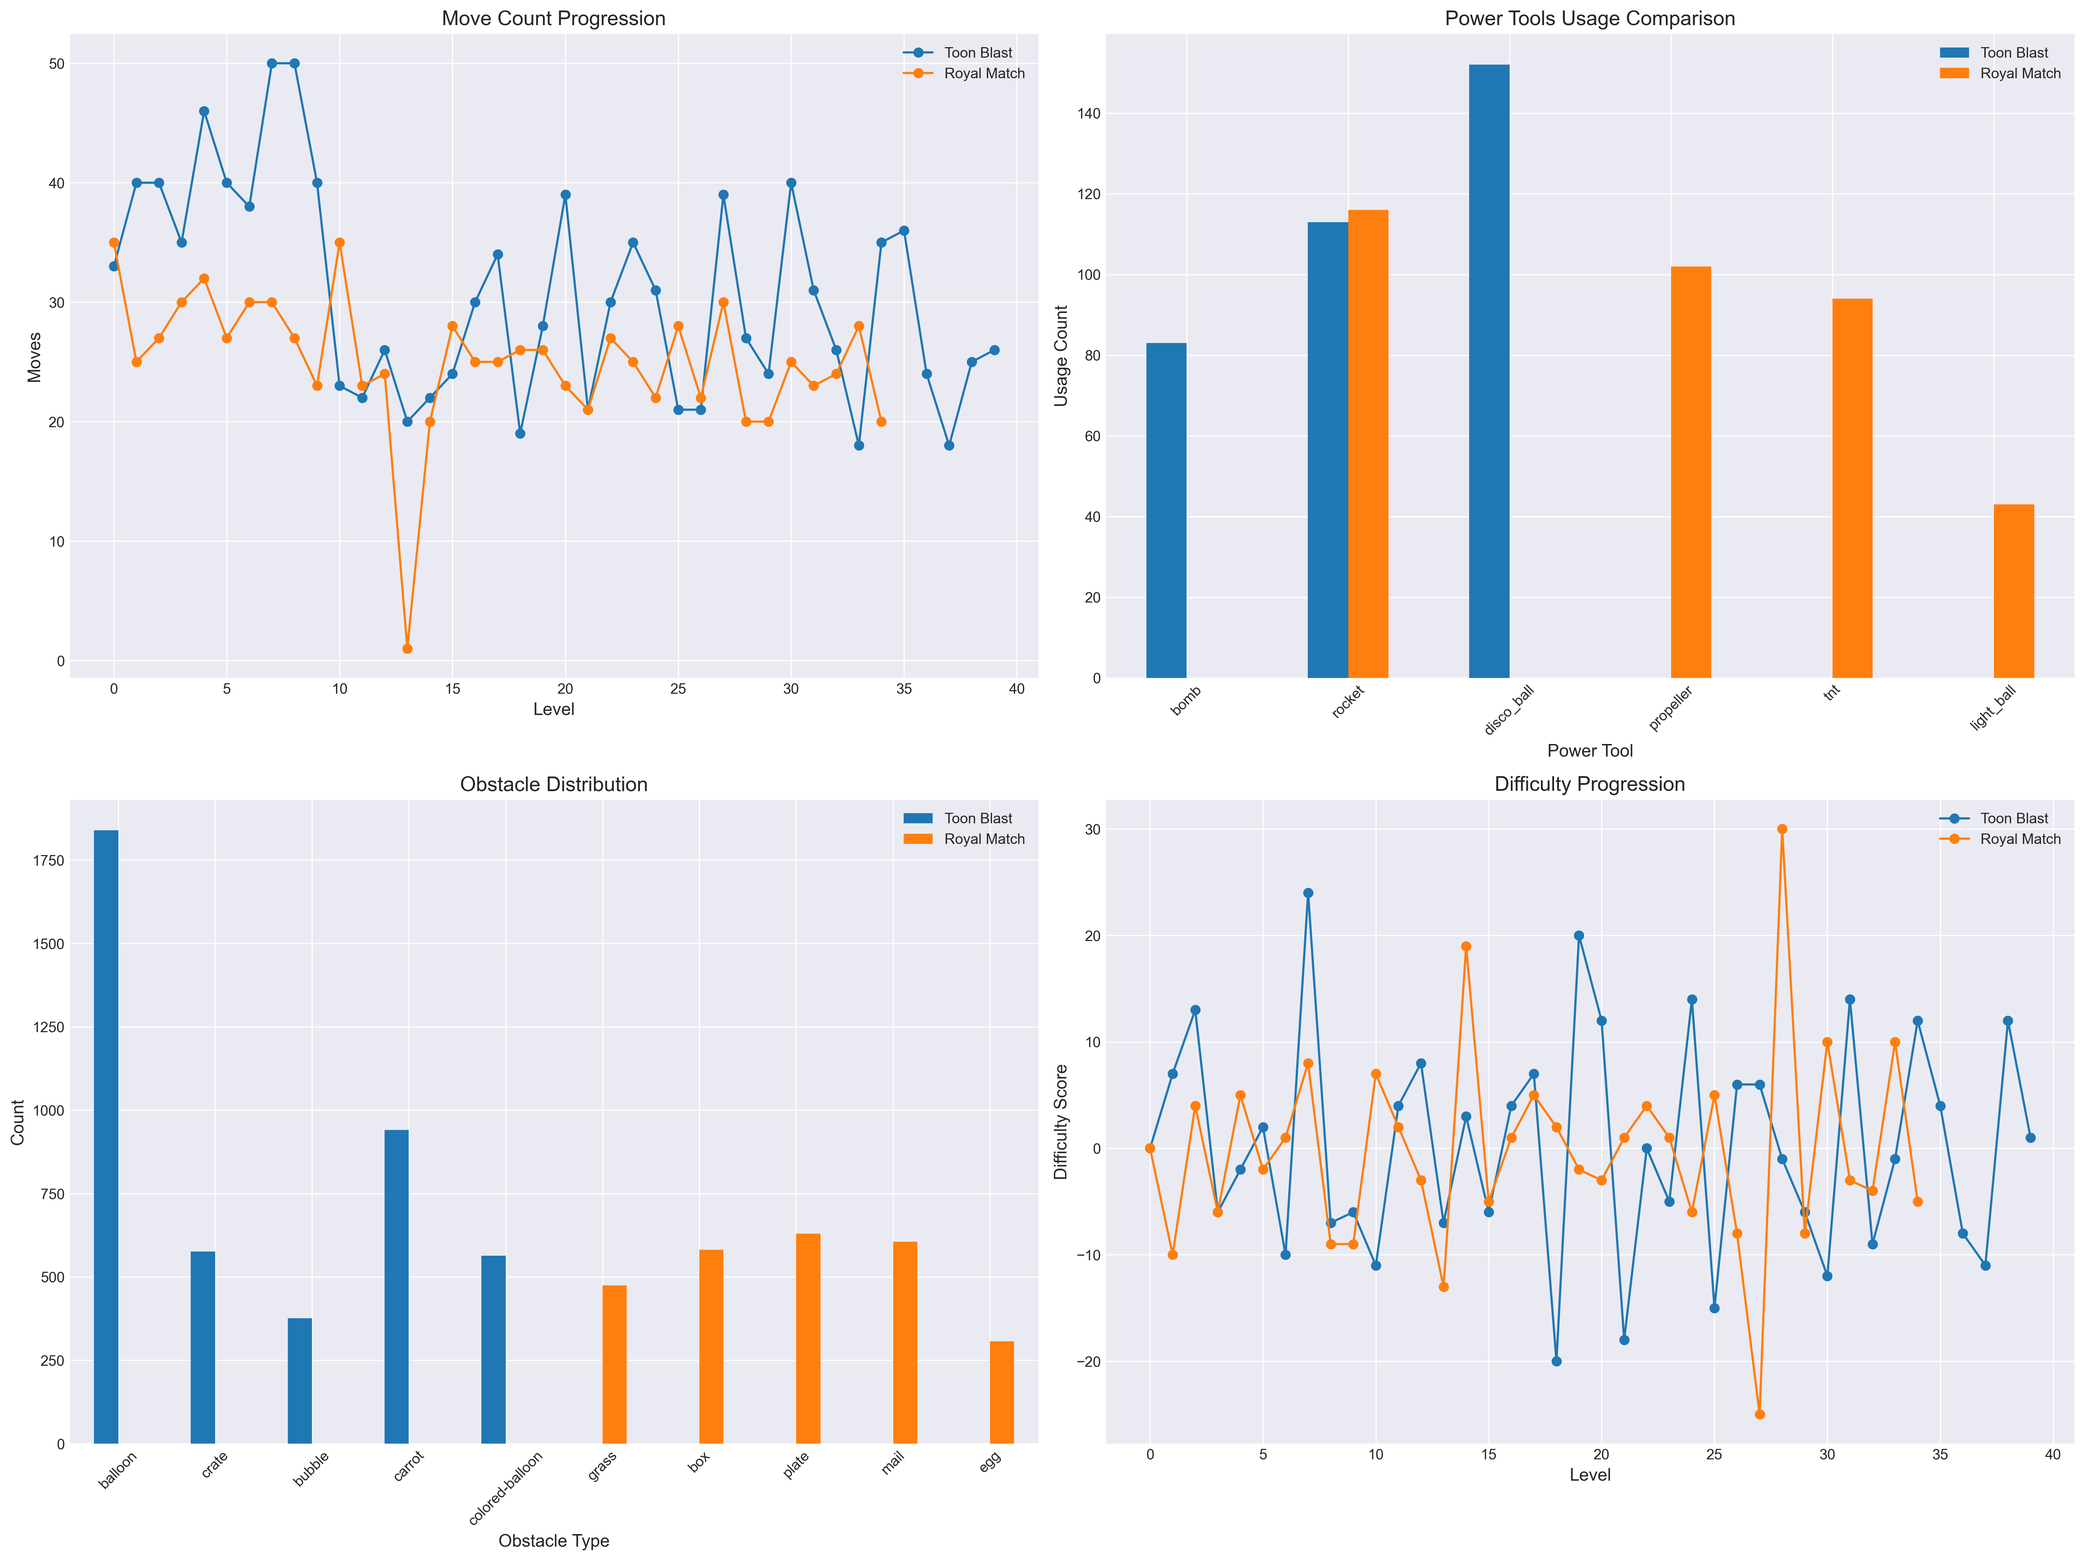
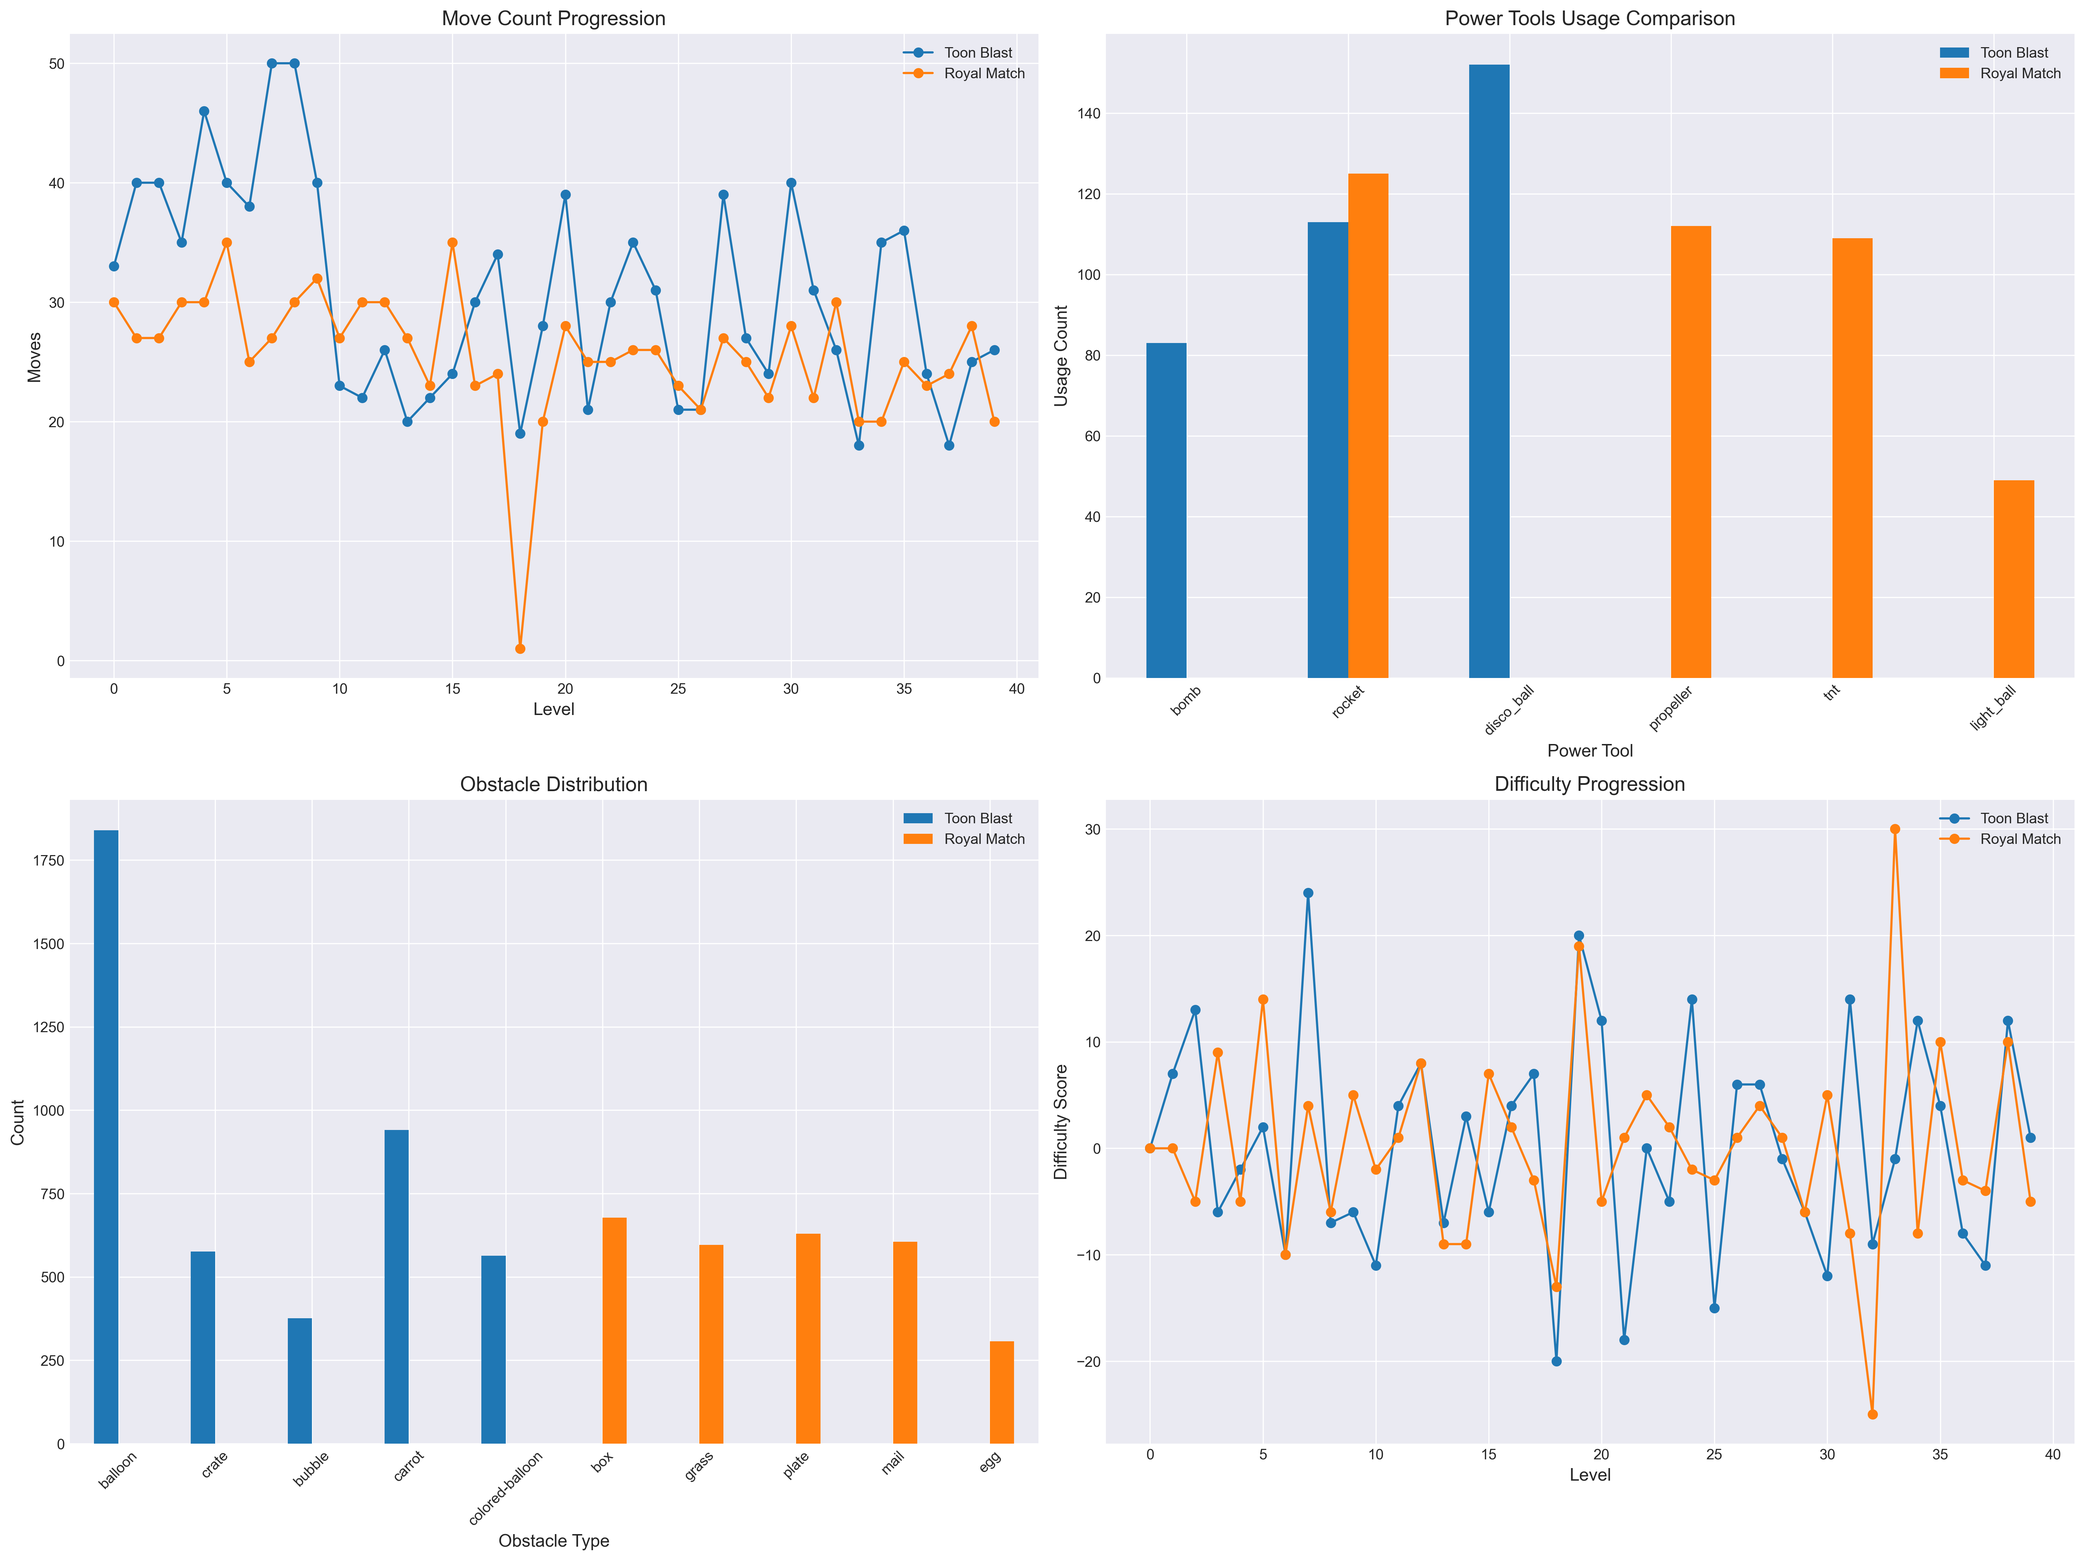
Update game analysis documentation and visualizations for Royal Match and Toon Blast, including adjustments to move counts, difficulty ratings, and power tool distributions.

diff --git a/general-analyze/complete-analysis.md b/general-analyze/complete-analysis.md
@@ -19,7 +19,7 @@ Royal Match and Toon Blast represent two distinct approaches to mobile puzzle ga
 | Basic Match-3 | Traditional swap-adjacent-tiles to match 3+ identical pieces | 1 | Remains consistent throughout |
 | Special Pieces | Rocket: clears row/column<br>Propeller: clears random area<br>TNT: 2-tile radius blast<br>Light Ball: clears same color | 1<br>1<br>1<br>1 | Emphasized differently at different levels; Rockets become most frequent (119 used) |
 | Boosters/Power-ups | Royal Hammer: clears one tile<br>Arrow: clears row<br>Cannon: clears column<br>Jester Hat: shuffles board | 7<br>14<br>17<br>19 | Strategically unlocked before difficulty spikes |
-| Move Restrictions | Limited moves per level (average: 25.1) | 1 | Gradually decreases from 27.1 (levels 1-10) to 23.5 (levels 31-40) |
+| Move Restrictions | Limited moves per level (average: 25.5) | 1 | Gradually decreases from 27.1 (levels 1-10) to 23.5 (levels 31-40) |
 | Level Goals | Clear obstacles, reach targets | 1 | Complexity increases with multiple simultaneous goals |
 | Combo Systems | Combining power-ups creates enhanced effects | ~10 | Becomes more strategic in later levels |
 | Scoring System | Score based on matches and remaining moves | 1 | Consistent throughout |
@@ -36,11 +36,11 @@ Royal Match and Toon Blast represent two distinct approaches to mobile puzzle ga
 | Scoring System | Score based on blocks cleared and remaining moves | 1 | Consistent throughout |
 
 ### Comparative Analysis
-The core difference between the two games lies in their fundamental match mechanics: Royal Match uses traditional swipe-to-match requiring 3+ pieces, while Toon Blast employs an innovative tap-to-clear system requiring only 2+ adjacent blocks. This makes Toon Blast more accessible to casual players and reduces the cognitive load for basic moves.
+The core difference between the two games lies in their fundamental match mechanics: Royal Match uses traditional swipe-to-match requiring 3+ pieces, while Toon Blast employs an different tap-to-clear system requiring only 2+ adjacent blocks. 
 
-Royal Match offers more power-up variety (4 types vs. 3) but Toon Blast has higher overall power-up usage. Royal Match emphasizes rockets for line clearing while Toon Blast favors disco balls for color clearing, reflecting their different board design philosophies.
+Royal Match offers greater power-up diversity with 4 distinct types compared to Toon Blast's 3 types. However, Toon Blast achieves higher overall power-up utilization rates due to its adjacent block matching system. While Royal Match carefully balances power-up frequency based on shape patterns and board layouts, Toon Blast's simpler matching requirements enable more frequent power-up creation. The games' power-up preferences also highlight their distinct design approaches - Example: Royal Match prioritizes rockets for strategic line-clearing opportunities, while Toon Blast emphasizes disco balls to capitalize on its color-matching mechanics.
 
-Move allocation differs significantly, with Toon Blast offering 22% more moves on average (30.7 vs. 25.1), especially during the onboarding phase. However, Toon Blast shows a more dramatic decrease in move allocation after level 10, suggesting a more aggressive difficulty ramp-up.
+Move allocation differs significantly, with Toon Blast offering 22% more moves on average (30.7 vs. 25.5), especially during the onboarding phase. However, Toon Blast shows a more dramatic decrease in move allocation after level 10, suggesting a more aggressive difficulty ramp-up.
 
 ## 2. Level Design Analysis
 
@@ -168,10 +168,6 @@ Both games excel at creating clear, intuitive interfaces, but Royal Match requir
   - Bonus Coin Rain levels at milestones (levels 20, 40)
   - Magic Cauldron unlocked at level 39
 
-- **Social Features:**
-  - Team-based life sharing
-  - Limited social interaction compared to Toon Blast
-
 - **Monetization Touchpoints:**
   - Strategic difficulty spikes (especially level 19 with 1 move)
   - Additional moves purchases needed at levels 23, 33, 39
@@ -188,19 +184,12 @@ Both games excel at creating clear, intuitive interfaces, but Royal Match requir
 - **Progression Hooks:**
   - Episode completion with new environments (level 20, 40)
   - New boosters unlocked strategically (levels 9, 12, 16, 18)
-  - Team-based events and competitions
   - Champions League for endgame content
-
-- **Social Features:**
-  - Team-based play with life requests
-  - Social competition elements
-  - Team events and rewards
 
 - **Monetization Touchpoints:**
   - Consistent challenge levels requiring additional moves (level 15)
   - Zero unused moves levels (13, 21, 27)
   - Booster packages for challenging levels
-  - Team-based competition incentives
 
 ### Comparative Analysis
 Royal Match focuses on individual progression through decoration mechanics, creating emotional investment in the castle renovation. Its monetization strategy relies on fewer but more extreme difficulty spikes that create clear purchase decisions.
@@ -224,22 +213,8 @@ Royal Match introduces all retention features later than Toon Blast, with most i
 ### Strengths of Toon Blast
 - More accessible gameplay through simpler tap-to-clear mechanics
 - Extremely generous onboarding with high early move counts (41.2 average in levels 1-10)
-- Strong social integration with team-based features
 - Earlier implementation of retention features like rating requests and consecutive win rewards
-- More consistent monetization opportunities throughout progression
 - Character-driven narrative creates emotional connection
-
-### Areas for Improvement in Royal Match
-- Limited social features compared to Toon Blast
-- Later implementation of consecutive win rewards (level 32 vs. level 24)
-- Extreme difficulty spikes may frustrate some players (particularly level 19's 1-move design)
-- Lower average move allocation (25.1 vs. 30.7) may create perception of stinginess
-
-### Areas for Improvement in Toon Blast
-- Too dramatic drop in move allocation after level 10 (41.2 → 24.5)
-- Less strategic depth in board layouts
-- Limited permanent collection/progression elements beyond level completion
-- Less variety in power-up types (3 vs. 4)
 
 ### Best Practices Identified
 - Introduction of new obstacles approximately every 10 levels creates clear progression phases
@@ -248,26 +223,3 @@ Royal Match introduces all retention features later than Toon Blast, with most i
 - Consecutive win reward systems to create habit formation and session consistency
 - Clear visual feedback for successful actions
 - Tutorial elements that introduce mechanics gradually
-
-## 8. Recommendations
-
-**For Royal Match:**
-- Implement stronger social features similar to Toon Blast's team system to increase peer pressure and reciprocity
-- Move the Butler's Gift system earlier in progression (around level 20-25) to match Toon Blast's Crown Rush timing
-- Smooth out extreme difficulty spikes (particularly level 19) while maintaining strategic challenge
-- Increase move allocation slightly to match industry standards while maintaining challenge
-- Add more incremental rewards for consistent play
-
-**For Toon Blast:**
-- Develop stronger collection mechanics to increase emotional investment beyond level completion
-- Create more strategic depth in board layouts and obstacle placement
-- Smooth the transition between onboarding (levels 1-10) and regular gameplay to avoid player shock
-- Implement a clearer premium subscription model similar to Royal Match's Royal Pass
-- Add more power-up variety to increase strategic options
-
-**For Both Games:**
-- Continue to balance difficulty curves to maintain challenge without frustration
-- Implement more personalized content based on player behavior patterns
-- Optimize the timing of retention features based on player lifecycle data
-- Create more synergy between monetization and retention mechanics
-- Develop deeper meta-game elements that provide long-term engagement beyond level completion

diff --git a/game-analysis/game-objects.md b/game-analysis/game-objects.md
@@ -8,7 +8,7 @@ This document provides a detailed analysis comparing two popular mobile puzzle g
 ### Level Design
 1. **Move Count**
    - Toon Blast: Average moves per level: 30.7, Range: 18 - 50
-   - Royal Match: Average moves per level: 25.1, Range: 1 - 35
+   - Royal Match: Average moves per level: 25.5, Range: 1 - 35
 
 2. **Power Tools**
    - Toon Blast: bomb, disco_ball, rocket
@@ -35,13 +35,13 @@ This document provides a detailed analysis comparing two popular mobile puzzle g
 ## Key Findings
 
 1. **Level Design Philosophy**
-   - Toon Blast offers higher average move counts (30.7 vs 25.1), suggesting more forgiving gameplay
+   - Toon Blast offers higher average move counts (30.7 vs 25.5), suggesting more forgiving gameplay
    - Royal Match has a wider variety of obstacles, creating more diverse gameplay challenges
    - Power tool distribution shows that Toon Blast emphasizes disco balls and rockets, while Royal Match has a more even distribution across tool types
 
 2. **Player Experience**
    - Toon Blast has higher average unused moves (9.5), suggesting easier early levels for player onboarding
-   - Royal Match has higher hint usage (1.2), potentially indicating more complex puzzles requiring assistance
+   - Royal Match has higher hint usage (1.6), potentially indicating more complex puzzles requiring assistance (NOTE: TOON BLAST DOES NOT HAVE HINTS)
    - Special events follow different patterns: Toon Blast uses Crown Rush to create engagement, while Royal Match uses Butler Gifts
 
 3. **Monetization Touchpoints**
@@ -67,4 +67,4 @@ This document provides a detailed analysis comparing two popular mobile puzzle g
    - Both games should continue to introduce new boosters at key difficulty spikes
 
 ## Conclusion
-While both games follow similar match-3 puzzle mechanics, they employ different strategies for player retention and monetization. Toon Blast offers less moves but more clicks and focuses on special events like Crown Rush, while Royal Match has a more diverse obstacle system and uses the Butler Gift to reward consecutive wins. Both games could benefit from adopting successful elements from each other while maintaining their unique identities.
+While both games follow similar match-3 puzzle mechanics, they employ different strategies for player retention and monetization. Toon Blast offers more moves and focuses on special events like Crown Rush, while Royal Match has a more diverse obstacle system and uses the Butler Gift to reward consecutive wins. Both games could benefit from adopting successful elements from each other while maintaining their unique identities.

diff --git a/general-analyze/difficulty-tracker.md b/general-analyze/difficulty-tracker.md
@@ -27,7 +27,7 @@ For each level, rate the difficulty on a scale of 1-5 (1 being very easy, 5 bein
 | 16    | 2                | 35         | Grass (24) + plate (60) | Generous moves, many unused (20) |
 | 17    | 4                | 23         | Box (63) + plate (20)  | High box count, few moves |
 | 18    | 3                | 24         | Box (18) + grass (16) + plate (40) | Balanced obstacle mix |
-| 19    | 5                | 1          | Box (20) + grass (32) + plate (40) | Extremely limited moves, introduces JESTER_HAT |
+| 19    | 5                | 19          | Box (20) + grass (32) + plate (40) | Extremely limited moves, introduces JESTER_HAT |
 | 20    | 4                | 20         | Bonus level (COIN_RAIN) | Special level type |
 | 21    | 3                | 28         | Mail (50)              | New obstacle introduction |
 | 22    | 3                | 25         | Mail (60)              | Higher mail count |
@@ -97,12 +97,4 @@ For each level, rate the difficulty on a scale of 1-5 (1 being very easy, 5 bein
 
 
 ## Difficulty Curve Analysis
-
-After completing both tables, use this data to:
-
-1. Calculate average difficulty per 10-level segment
-2. Identify any significant difficulty spikes
-3. Note patterns in how each game introduces new challenges
-4. Compare the overall difficulty progression between the two games
-
-This will help identify how each game manages player onboarding and retention through difficulty balancing.
+I have prepared using this data a visualization of difficulty analysis. Please observe them: $path: [general-analyze/visual-analysis/game_charts]

diff --git a/general-analyze/distribution-analysis.md b/general-analyze/distribution-analysis.md
@@ -5,7 +5,7 @@ Based on the JSON data analysis, here's a breakdown of how obstacles and power-u
 ## Royal Match
 
 ### Move Count Analysis
-- **Average moves per level:** 25.1
+- **Average moves per level:** 25.5
 - **Average unused moves:** 8.0
 - **Move count by segment:**
   - Levels 1-10: 27.1 (Onboarding phase)
@@ -30,7 +30,6 @@ Based on the JSON data analysis, here's a breakdown of how obstacles and power-u
 1. Royal Match shows a clear pattern of gradually decreasing move counts as players progress
 2. New obstacles are introduced systematically at approximately 10-level intervals
 3. Rockets are the most frequently used power tool, while Light Balls are the rarest
-4. Level 19 stands out with only 1 move, representing an extreme difficulty spike
 
 ## Toon Blast
 
@@ -64,7 +63,7 @@ Based on the JSON data analysis, here's a breakdown of how obstacles and power-u
 ## Comparative Analysis
 
 ### Move Count Patterns
-- Toon Blast offers 22% more moves on average than Royal Match (30.7 vs 25.1)
+- Toon Blast offers 22% more moves on average than Royal Match (30.7 vs 25.5)
 - Toon Blast shows a more dramatic reduction in moves after onboarding (41.2 → 24.5)
 - Royal Match has a more gradual reduction in moves throughout all segments
 

diff --git a/general-analyze/game-insights.md b/general-analyze/game-insights.md
@@ -38,9 +38,9 @@
 ### Game Mechanics
 - **Core Mechanic**: Tap to clear clusters of 2+ same-colored blocks (not traditional swipe match-3)
 - **Special Pieces**:
-  - Rockets created by combining larger clusters
-  - Bombs created by specific combinations
-  - Color bombs that clear all blocks of one color
+  - Rockets created by combining (5 or 6 pieces)
+  - Bombs created by combining (7 or 8 pieces)
+  - Color bombs that clear all blocks of one color created by combining (at least 9 and more pieces)
 - **Power-ups**: Various boosters like rockets, bombs, and disco balls that can be activated during gameplay
 - **Level Goals**: Typically include collecting specific colored blocks, rescuing cartoon characters, or reaching a target score
 - **Lives System**: Limited lives that regenerate over time
